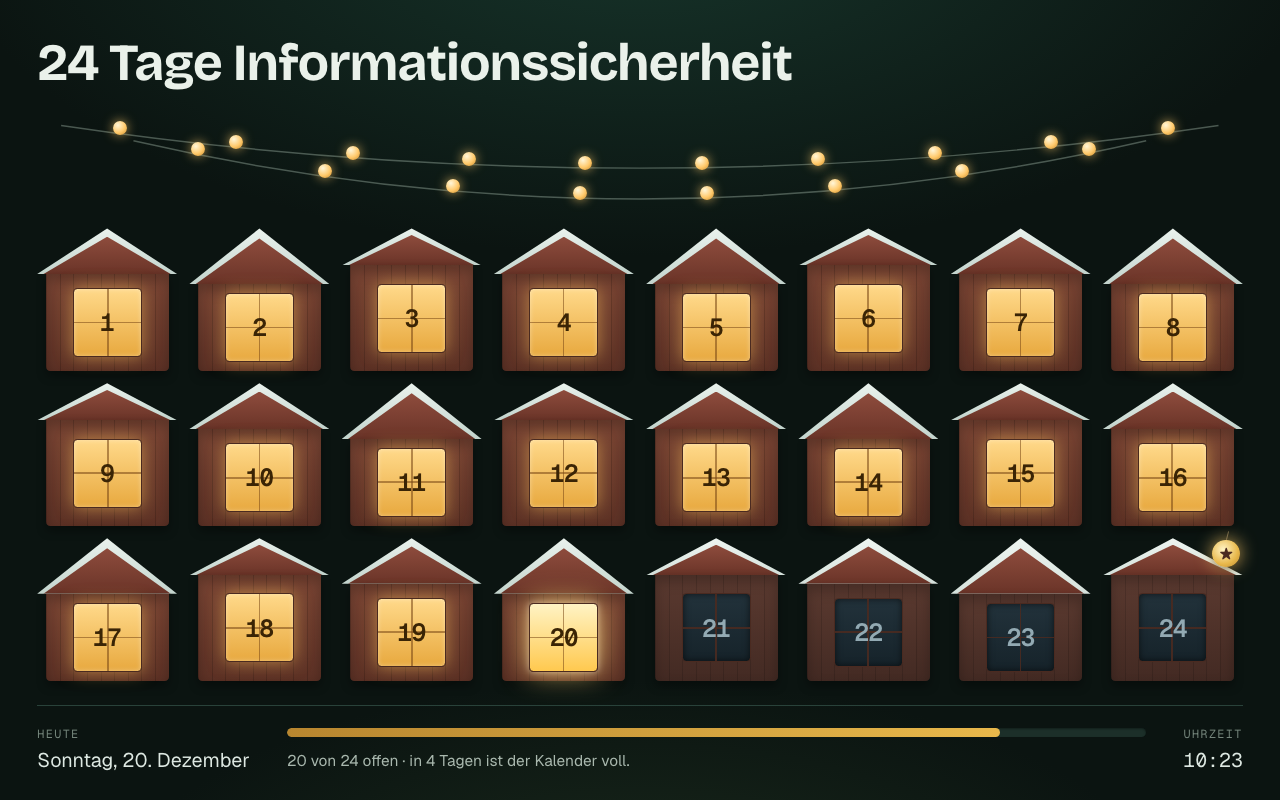
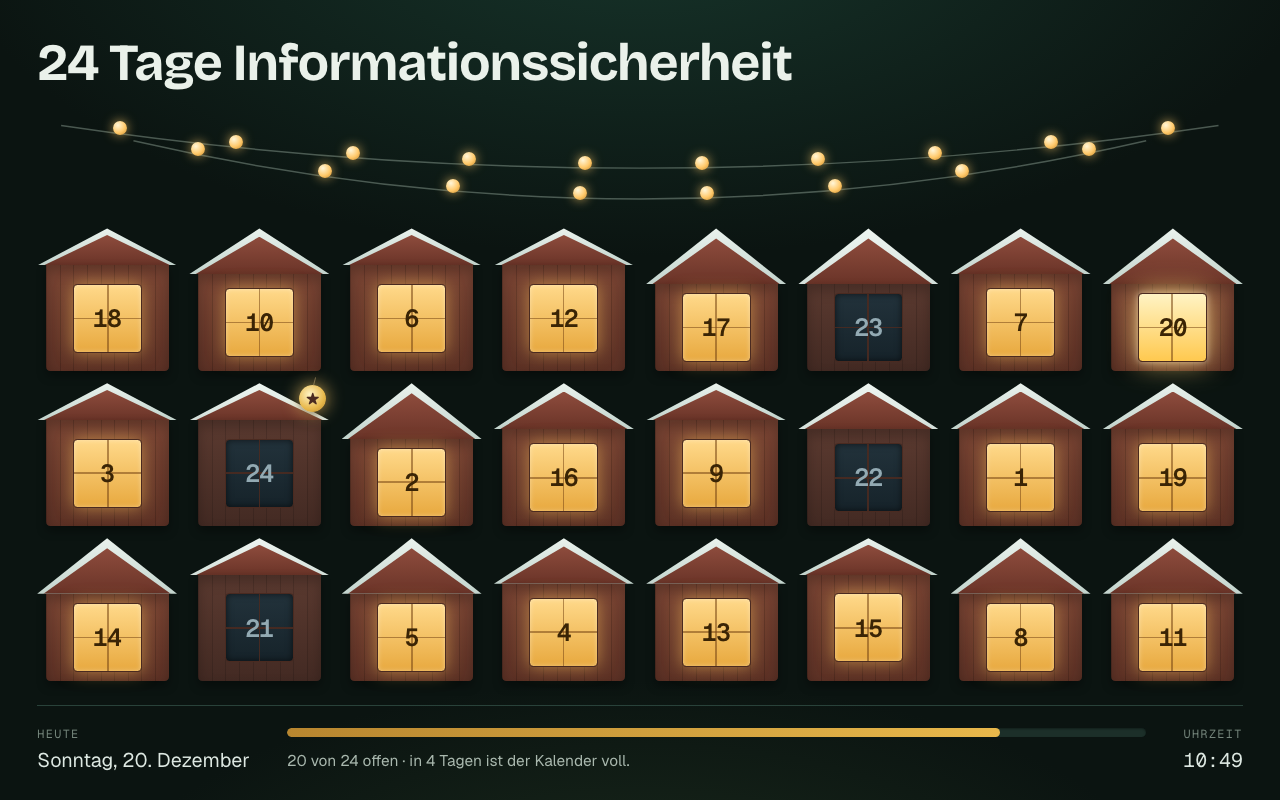
Hütten verstreut im Raster wie ein echter Wandkalender
Die Positionen sind gemischt, der Inhalt bleibt bei seiner Zahl: Tür 2 ist
weiterhin das Quiz, Tür 24 das Finale mit Schild. Nur der Platz wechselt.

Die Mischung ist deterministisch (mulberry32, Seed = Kalenderjahr): gleiche
Anordnung bei jedem Neuladen und auf jedem Gerät, aber jedes Jahr ein neues
Dorf. ?geordnet=1 schaltet zurück auf 1–24, ?seed=N erzwingt eine andere
Anordnung — praktisch, um eine gefällige Variante auszusuchen.

Drei Selftests griffen per Position auf doors[2] zu; nach dem Mischen ist
das nicht mehr Tag 3. Sie wählen jetzt über data-day. Dazu sechs neue Tests
für Vollständigkeit, Stabilität, geordnet und seed — 38 grün.

diff --git a/_selftest.html b/_selftest.html
@@ -48,11 +48,13 @@ const sleep = (ms) => new Promise((r) => setTimeout(r, ms));
   d = f.contentDocument;
   const doors = d.querySelectorAll(".door");
   ok("24 Türen", doors.length === 24);
-  ok("Tag 3 offen", doors[2].getAttribute("aria-disabled") !== "true");
-  ok("Tag 4 zu", doors[3].getAttribute("aria-disabled") === "true");
-  ok("Tag 3 als heute markiert", doors[2].classList.contains("is-today"));
+  // Nach Position zu greifen wäre falsch: Das Raster ist gemischt.
+  const door = (n) => d.querySelector(`.door[data-day="${n}"]`);
+  ok("Tag 3 offen", door(3).getAttribute("aria-disabled") !== "true");
+  ok("Tag 4 zu", door(4).getAttribute("aria-disabled") === "true");
+  ok("Tag 3 als heute markiert", door(3).classList.contains("is-today"));
   ok("Fortschritt 3/24", d.getElementById("bar").getAttribute("aria-valuenow") === "3");
-  doors[5].click();
+  door(6).click();
   ok("geschlossene Tür zeigt Hinweis", !d.getElementById("toast").hidden);
   f.remove();
 
@@ -88,7 +90,7 @@ const sleep = (ms) => new Promise((r) => setTimeout(r, ms));
   ok("?alle=1: alle 24 offen", alleDoors.every((x) => x.getAttribute("aria-disabled") !== "true"),
      String(alleDoors.filter((x) => x.getAttribute("aria-disabled") !== "true").length));
   ok("?alle=1 bleibt nach Ticks offen", alleDoors.every((x) => !x.classList.contains("is-future")));
-  alleDoors[4].click();
+  d.querySelector('.door[data-day="5"]').click();
   ok("?alle=1: Türchen öffnet sich", !d.getElementById("detail").hidden);
   ok("?alle=1: richtiges Türchen (5)", /Passwortschule|Länge schlägt/.test(
      d.querySelector(".detail-card")?.textContent || ""));
@@ -104,6 +106,37 @@ const sleep = (ms) => new Promise((r) => setTimeout(r, ms));
      !!d.querySelector('.door[data-day="24"] .hut-sign'));
   ok("Lichterkette mit Birnen", d.querySelectorAll(".bulb").length > 8,
      String(d.querySelectorAll(".bulb").length));
+  f.remove();
+
+  // 9) Verstreute Hütten: alle 24 genau einmal, stabil, abschaltbar
+  f = await load("?datum=2026-12-09&auto=aus");
+  d = f.contentDocument;
+  const orderA = [...d.querySelectorAll(".door")].map((x) => x.dataset.day);
+  ok("Mischung: 24 Hütten", orderA.length === 24);
+  ok("Mischung: jede Zahl genau einmal",
+     new Set(orderA).size === 24 && orderA.every((v) => Number(v) >= 1 && Number(v) <= 24));
+  ok("Mischung: nicht in Reihenfolge",
+     orderA.join(",") !== Array.from({length:24},(_,i)=>String(i+1)).join(","));
+  f.remove();
+
+  f = await load("?datum=2026-12-09&auto=aus");
+  d = f.contentDocument;
+  const orderB = [...d.querySelectorAll(".door")].map((x) => x.dataset.day);
+  ok("Mischung: stabil über Neuladen", orderA.join(",") === orderB.join(","));
+  f.remove();
+
+  f = await load("?datum=2026-12-09&auto=aus&geordnet=1");
+  d = f.contentDocument;
+  const ordered = [...d.querySelectorAll(".door")].map((x) => x.dataset.day);
+  ok("?geordnet=1 stellt 1–24 wieder her",
+     ordered.join(",") === Array.from({length:24},(_,i)=>String(i+1)).join(","));
+  f.remove();
+
+  f = await load("?datum=2026-12-09&auto=aus&seed=7");
+  d = f.contentDocument;
+  const seeded = [...d.querySelectorAll(".door")].map((x) => x.dataset.day);
+  ok("?seed=7 ergibt andere Anordnung", seeded.join(",") !== orderA.join(","));
+  ok("?seed=7 ist vollständig", new Set(seeded).size === 24);
   f.remove();
 
   document.getElementById("out").textContent = results.join("\n");

diff --git a/static/app.js b/static/app.js
@@ -118,11 +118,44 @@ function renderMasthead(data) {
   document.title = title;
 }
 
+/* Positionen der Hütten im Raster.
+ *
+ * Wie ein echter Wandkalender: Die Türchen stehen verstreut, nicht in
+ * 1–24-Reihenfolge. Der Inhalt bleibt bei seiner Zahl (Tür 2 bleibt das
+ * Quiz, Tür 24 das Finale) — nur der Platz im Raster wechselt.
+ *
+ * Die Mischung ist deterministisch: gleicher Seed → gleiche Anordnung, also
+ * bei jedem Neuladen und auf jedem Gerät identisch. Der Seed enthält das
+ * Jahr, damit es nächstes Jahr ein neues Dorf gibt. ?geordnet=1 schaltet
+ * die Reihenfolge ab, ?seed=… erzwingt eine andere Anordnung. */
+
+function shuffledPositions() {
+  const days = Array.from({ length: 24 }, (_, i) => i + 1);
+  if (params.get("geordnet")) return days;
+
+  let seed = Number(params.get("seed")) || state.data.year || 2026;
+  // mulberry32: klein, schnell, für 24 Elemente mehr als genug.
+  const rand = () => {
+    seed = (seed + 0x6D2B79F5) | 0;
+    let t = Math.imul(seed ^ (seed >>> 15), 1 | seed);
+    t = (t + Math.imul(t ^ (t >>> 7), 61 | t)) ^ t;
+    return ((t ^ (t >>> 14)) >>> 0) / 4294967296;
+  };
+
+  // Fisher-Yates
+  for (let i = days.length - 1; i > 0; i--) {
+    const j = Math.floor(rand() * (i + 1));
+    [days[i], days[j]] = [days[j], days[i]];
+  }
+  return days;
+}
+
 function renderBoard() {
   board.innerHTML = "";
   const byDay = new Map(state.data.doors.map((d) => [d.day, d]));
 
-  for (let day = 1; day <= 24; day++) {
+  // Reihenfolge der Rasterzellen; die Zelle trägt die Tageszahl.
+  for (const day of shuffledPositions()) {
     const item = byDay.get(day);
     const li = document.createElement("li");
     const btn = document.createElement("button");

diff --git a/README.md b/README.md
@@ -28,6 +28,10 @@ es dafür `tools/kiosk.sh` — siehe [Kiosk](#kiosk-linux-mint).
 - Jedes Türchen ist eine kleine Hütte: Satteldach mit Schnee, Holzwand, ein
   Fenster mit der Tageszahl. Geschlossen ist das Fenster dunkel, geöffnet
   leuchtet es warm — heute am hellsten.
+- Die Hütten stehen **verstreut** im Raster, wie bei einem echten
+  Wandkalender. Der Inhalt bleibt bei seiner Zahl (Tür 2 ist das Quiz, Tür 24
+  das Finale), nur der Platz wechselt. Die Mischung ist deterministisch:
+  gleicher Seed, gleiche Anordnung — bei jedem Neuladen und auf jedem Gerät.
 - Über dem Dorf hängen zwei Lichterketten mit blinkenden Birnen; die Dächer
   haben drei Höhen im Wechsel, und über Tür 24 hängt ein Sternenschild.
 - **Heute** ist gold hinterlegt und wird zuerst gezeigt.
@@ -53,6 +57,8 @@ Türen zu. Zum Durchklicken gibt es drei Wege.
 | `?auto=aus` | Automatik aus, nur Klick öffnet |
 | `?alle=1` | Alle 24 Türchen offen, unabhängig vom Datum — zum Durchklicken |
 | `?liste=1` | Alle 24 Texte untereinander zum Korrekturlesen |
+| `?geordnet=1` | Hütten in 1–24-Reihenfolge statt verstreut |
+| `?seed=7` | Andere Mischung erzwingen (Zahl frei wählbar) |
 
 Beispiele: <http://localhost:8099/?datum=2026-12-07&auto=aus> ·
 <http://localhost:8099/?tur=2> · <http://localhost:8099/?alle=1> ·
@@ -107,6 +113,10 @@ gültigen Index und zu langen Texten — eine Tür muss aus drei Metern in rund
 
 `year` in `advent.json` setzt das Kalenderjahr. Für ein anderes Jahr nur diese
 Zahl ändern; die Türchen selbst sind jahresunabhängig formuliert.
+
+Das Jahr ist gleichzeitig der Seed der Mischung: Jedes Jahr ergibt eine neue
+Anordnung der Hütten, ohne dass etwas eingestellt werden muss. Wer die
+Reihenfolge behalten will, hängt `?geordnet=1` an die URL.
 
 ## Aufbau
 
